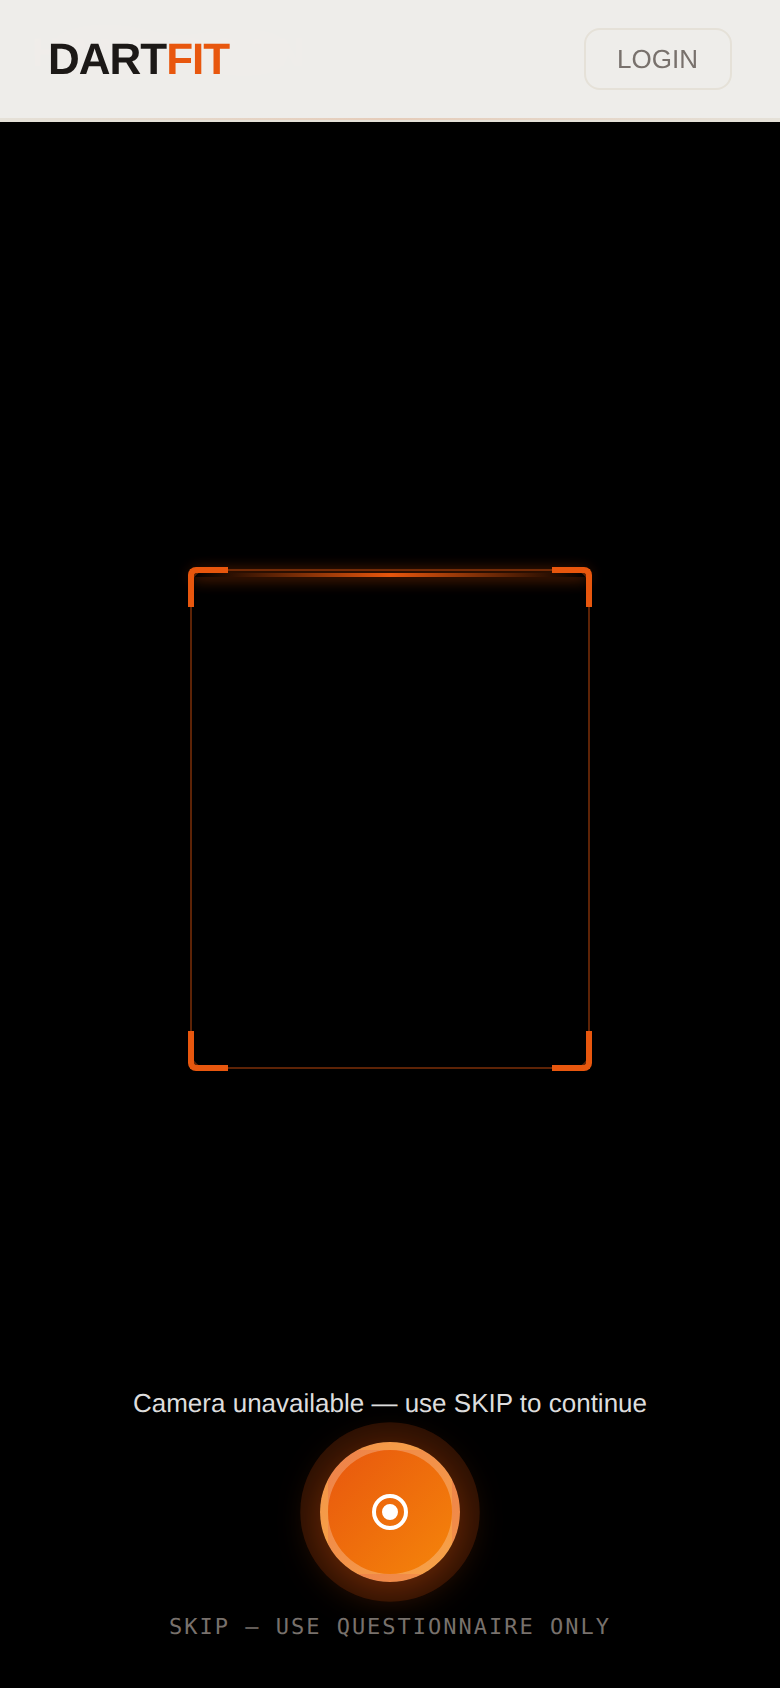
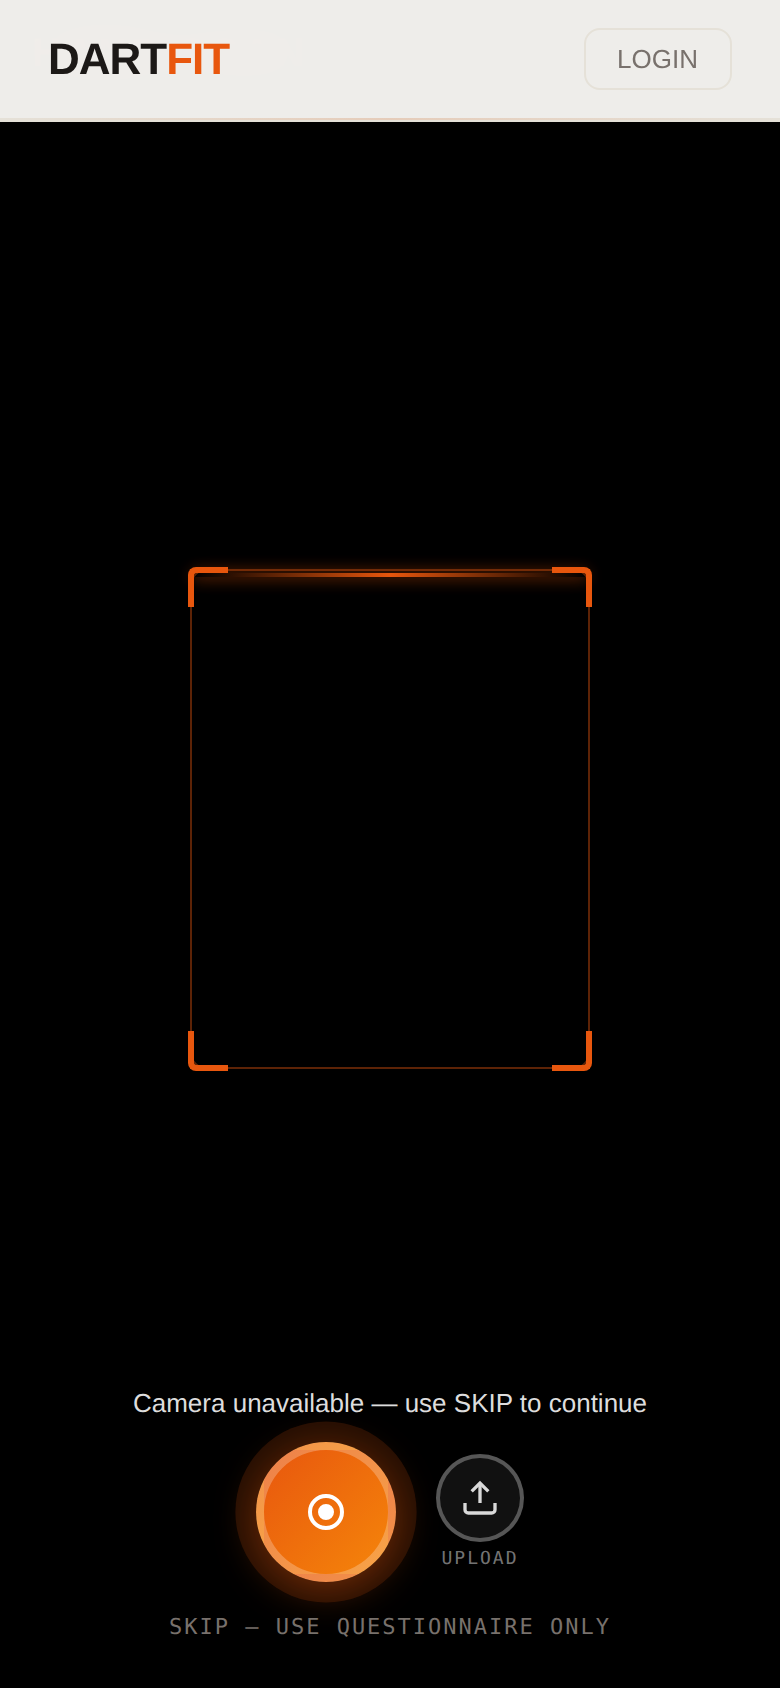
Add file upload option to hand scan screen
- Adds UPLOAD button (circle with upload icon + label) alongside the capture button
- Hidden file input triggered via label click — no JS needed to open file picker
- handleScanFileUpload(): reads file → draws to canvas → sends to MediaPipe
  for landmark detection on the static image using the same measurement
  extraction pipeline as captureHand()
- Falls back to height-derived estimates + shows toast if no hand detected
- Works on both mobile (photo library) and desktop (file manager)
- Arm scan already had Camera + Upload; hand scan now matches

https://claude.ai/code/session_01YWty4u6m7Anc7p13YXofsh

Changed region(s): [[0.3077, 0.8318, 0.6769, 0.955]]

diff --git a/public/index.html b/public/index.html
@@ -551,11 +551,25 @@ input[type=range]::-webkit-slider-thumb{-webkit-appearance:none;width:22px;heigh
     </div>
     <div class="scan-footer">
       <div class="scan-status-text" id="scan-status-text">Open your throwing hand and hold it inside the frame</div>
-      <button class="btn-capture" onclick="captureHand()">
-        <svg width="24" height="24" viewBox="0 0 24 24" fill="none" stroke="#fff" stroke-width="2">
-          <circle cx="12" cy="12" r="8"/><circle cx="12" cy="12" r="3" fill="#fff"/>
-        </svg>
-      </button>
+      <!-- Capture + Upload row -->
+      <div style="display:flex;align-items:center;gap:20px">
+        <button class="btn-capture" onclick="captureHand()" title="Capture from camera">
+          <svg width="24" height="24" viewBox="0 0 24 24" fill="none" stroke="#fff" stroke-width="2">
+            <circle cx="12" cy="12" r="8"/><circle cx="12" cy="12" r="3" fill="#fff"/>
+          </svg>
+        </button>
+        <label title="Upload a photo of your hand" style="display:flex;flex-direction:column;align-items:center;gap:4px;cursor:pointer;opacity:0.85">
+          <div style="width:44px;height:44px;border-radius:50%;border:2px solid rgba(255,255,255,.35);
+                      display:flex;align-items:center;justify-content:center;background:rgba(255,255,255,.08)">
+            <svg width="20" height="20" viewBox="0 0 24 24" fill="none" stroke="#fff" stroke-width="2">
+              <path d="M21 15v4a2 2 0 01-2 2H5a2 2 0 01-2-2v-4"/>
+              <polyline points="17 8 12 3 7 8"/><line x1="12" y1="3" x2="12" y2="15"/>
+            </svg>
+          </div>
+          <span style="font-family:'Share Tech Mono',monospace;font-size:9px;letter-spacing:1px;color:rgba(255,255,255,.55)">UPLOAD</span>
+          <input type="file" accept="image/*" id="scan-file-input" style="display:none" onchange="handleScanFileUpload(this)">
+        </label>
+      </div>
       <button style="background:none;border:none;color:var(--muted);font-family:'Share Tech Mono',monospace;
                      font-size:11px;letter-spacing:1px;cursor:pointer;padding:4px" onclick="skipScan()">
         SKIP — USE QUESTIONNAIRE ONLY
@@ -1017,6 +1031,97 @@ function skipScan() {
   state.handMeasurements = null;
   stopCamera();
   navigate('arm');
+}
+
+function handleScanFileUpload(input) {
+  const file = input.files?.[0];
+  if (!file) return;
+  input.value = '';  // reset so same file can be re-selected
+
+  const statusEl = document.getElementById('scan-status-text');
+  statusEl.textContent = 'Reading image…';
+
+  const reader = new FileReader();
+  reader.onload = async (e) => {
+    const dataUrl = e.target.result;
+    state.handImageData = dataUrl;
+
+    // Draw image to a temporary canvas so MediaPipe can process it
+    const img = new Image();
+    img.onload = async () => {
+      const tmpCanvas = document.createElement('canvas');
+      tmpCanvas.width  = img.naturalWidth;
+      tmpCanvas.height = img.naturalHeight;
+      tmpCanvas.getContext('2d').drawImage(img, 0, 0);
+
+      // Ensure MediaPipe is initialised before processing
+      if (!_mpHands) {
+        statusEl.textContent = 'Loading hand detector…';
+        await initMediaPipe();
+      }
+
+      if (_mpHands) {
+        statusEl.textContent = 'Detecting landmarks…';
+        // Process the static image — result lands in _lastLM via onResults callback
+        _lastLM = null;
+        await _mpHands.send({ image: tmpCanvas });
+        // Give the callback a tick to fire
+        await new Promise(r => setTimeout(r, 80));
+      }
+
+      // captureHand() reads _lastLM + state.handImageData — reuse its logic
+      // by running the measurement extraction directly (no video needed)
+      if (_lastLM) {
+        const lm = _lastLM;
+        const vW = tmpCanvas.width, vH = tmpCanvas.height;
+        const px = i => ({ x: lm[i].x * vW, y: lm[i].y * vH });
+        const d  = (a, b) => Math.sqrt((a.x-b.x)**2 + (a.y-b.y)**2);
+        const estHandMm = (state.questionnaire.heightCm || 175) * 10 * 0.1045;
+        const pxPerMm   = d(px(0), px(12)) / estHandMm;
+        const fingerLength    = (d(px(9),px(10)) + d(px(10),px(11)) + d(px(11),px(12))) / pxPerMm;
+        const palmWidth       = d(px(5), px(17)) / pxPerMm;
+        const fingerSpan      = d(px(4), px(20)) / pxPerMm;
+        const gripDiameter    = palmWidth * 0.182;
+        const chord = d(px(9), px(12));
+        const chain = d(px(9),px(10)) + d(px(10),px(11)) + d(px(11),px(12));
+        const fingerFlexIndex = Math.min(1, Math.max(0.5, chord / chain));
+        const h = (state.questionnaire.heightCm || 175);
+        const throwAngleDeg   = Math.atan2(1730 - h*0.936*10, 2370) * 180 / Math.PI;
+        state.handLandmarks   = lm;
+        state.handLandmarkVid = { w: vW, h: vH };
+        state.handMeasurements = {
+          fingerLength:    parseFloat(fingerLength.toFixed(1)),
+          palmWidth:       parseFloat(palmWidth.toFixed(1)),
+          gripDiameter:    parseFloat(gripDiameter.toFixed(1)),
+          fingerSpan:      parseFloat(fingerSpan.toFixed(0)),
+          fingerFlexIndex: parseFloat(fingerFlexIndex.toFixed(2)),
+          throwAngleDeg:   parseFloat(throwAngleDeg.toFixed(1)),
+        };
+        statusEl.textContent = '✓ Hand landmarks detected — processing...';
+      } else {
+        // No landmarks found — use height-based fallback
+        state.handLandmarks = null;
+        const h = state.questionnaire.heightCm || 175;
+        const r = () => (Math.random() - 0.5);
+        const eyeH = h * 0.936 * 10;
+        state.handMeasurements = {
+          fingerLength:    parseFloat((h * 0.116 + r()*4).toFixed(1)),
+          palmWidth:       parseFloat((h * 0.110 + r()*5).toFixed(1)),
+          gripDiameter:    parseFloat((h * 0.110 * 0.182 + r()*1.5).toFixed(1)),
+          fingerSpan:      parseFloat((h * 0.230 + r()*10).toFixed(0)),
+          fingerFlexIndex: parseFloat((0.82 + r()*0.06).toFixed(2)),
+          throwAngleDeg:   parseFloat((Math.atan2(1730 - eyeH, 2370) * 180 / Math.PI).toFixed(1)),
+        };
+        statusEl.textContent = '✓ Photo received — using estimated measurements';
+        toast('No hand detected in photo — using height-based estimates', 'error');
+      }
+
+      stopCamera();
+      setTimeout(() => navigate('arm'), 600);
+    };
+    img.src = dataUrl;
+  };
+  reader.readAsDataURL(file);
 }
 
 // ─── ARM IMAGE ───────────────────────────────────────────────────
